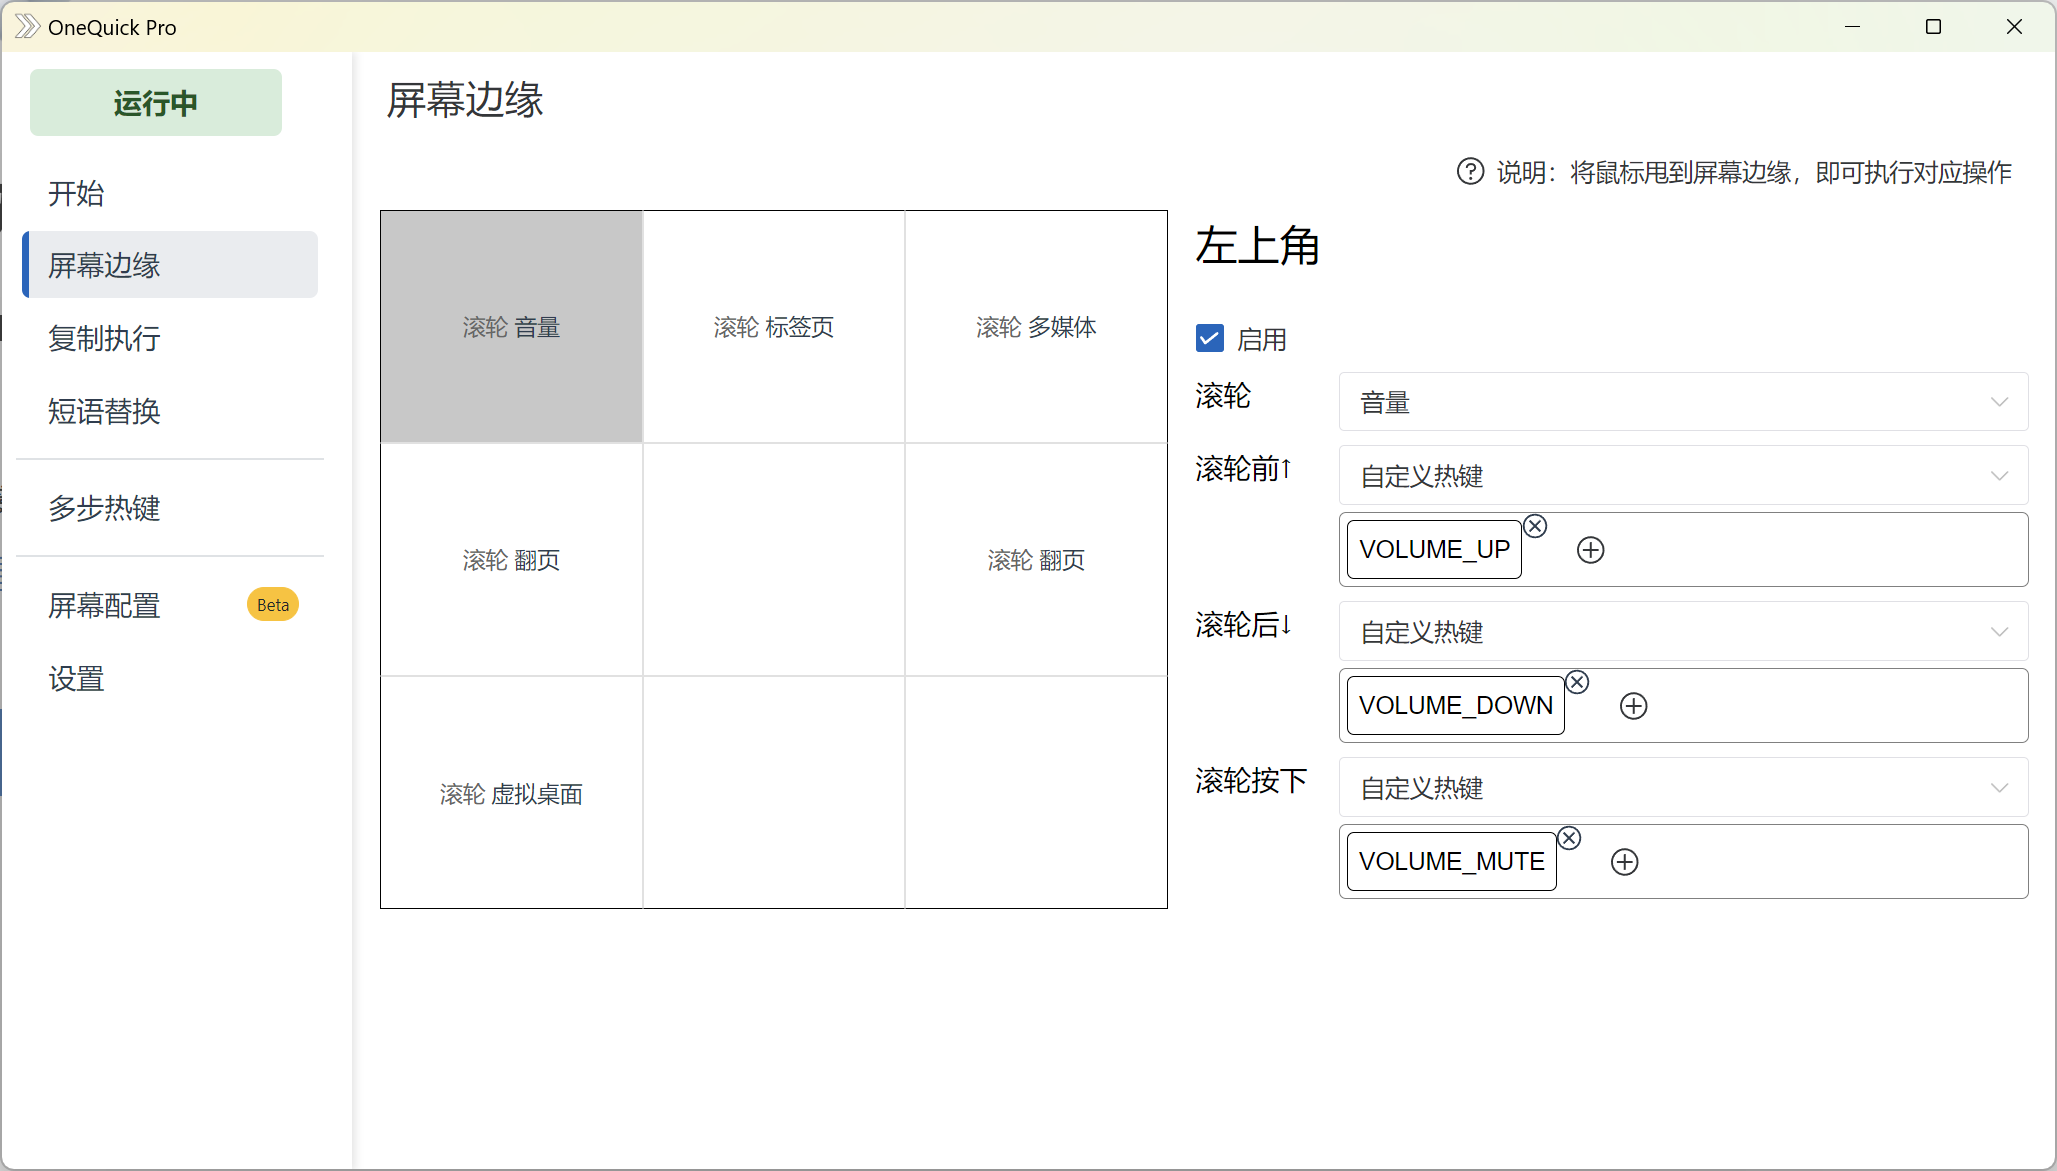
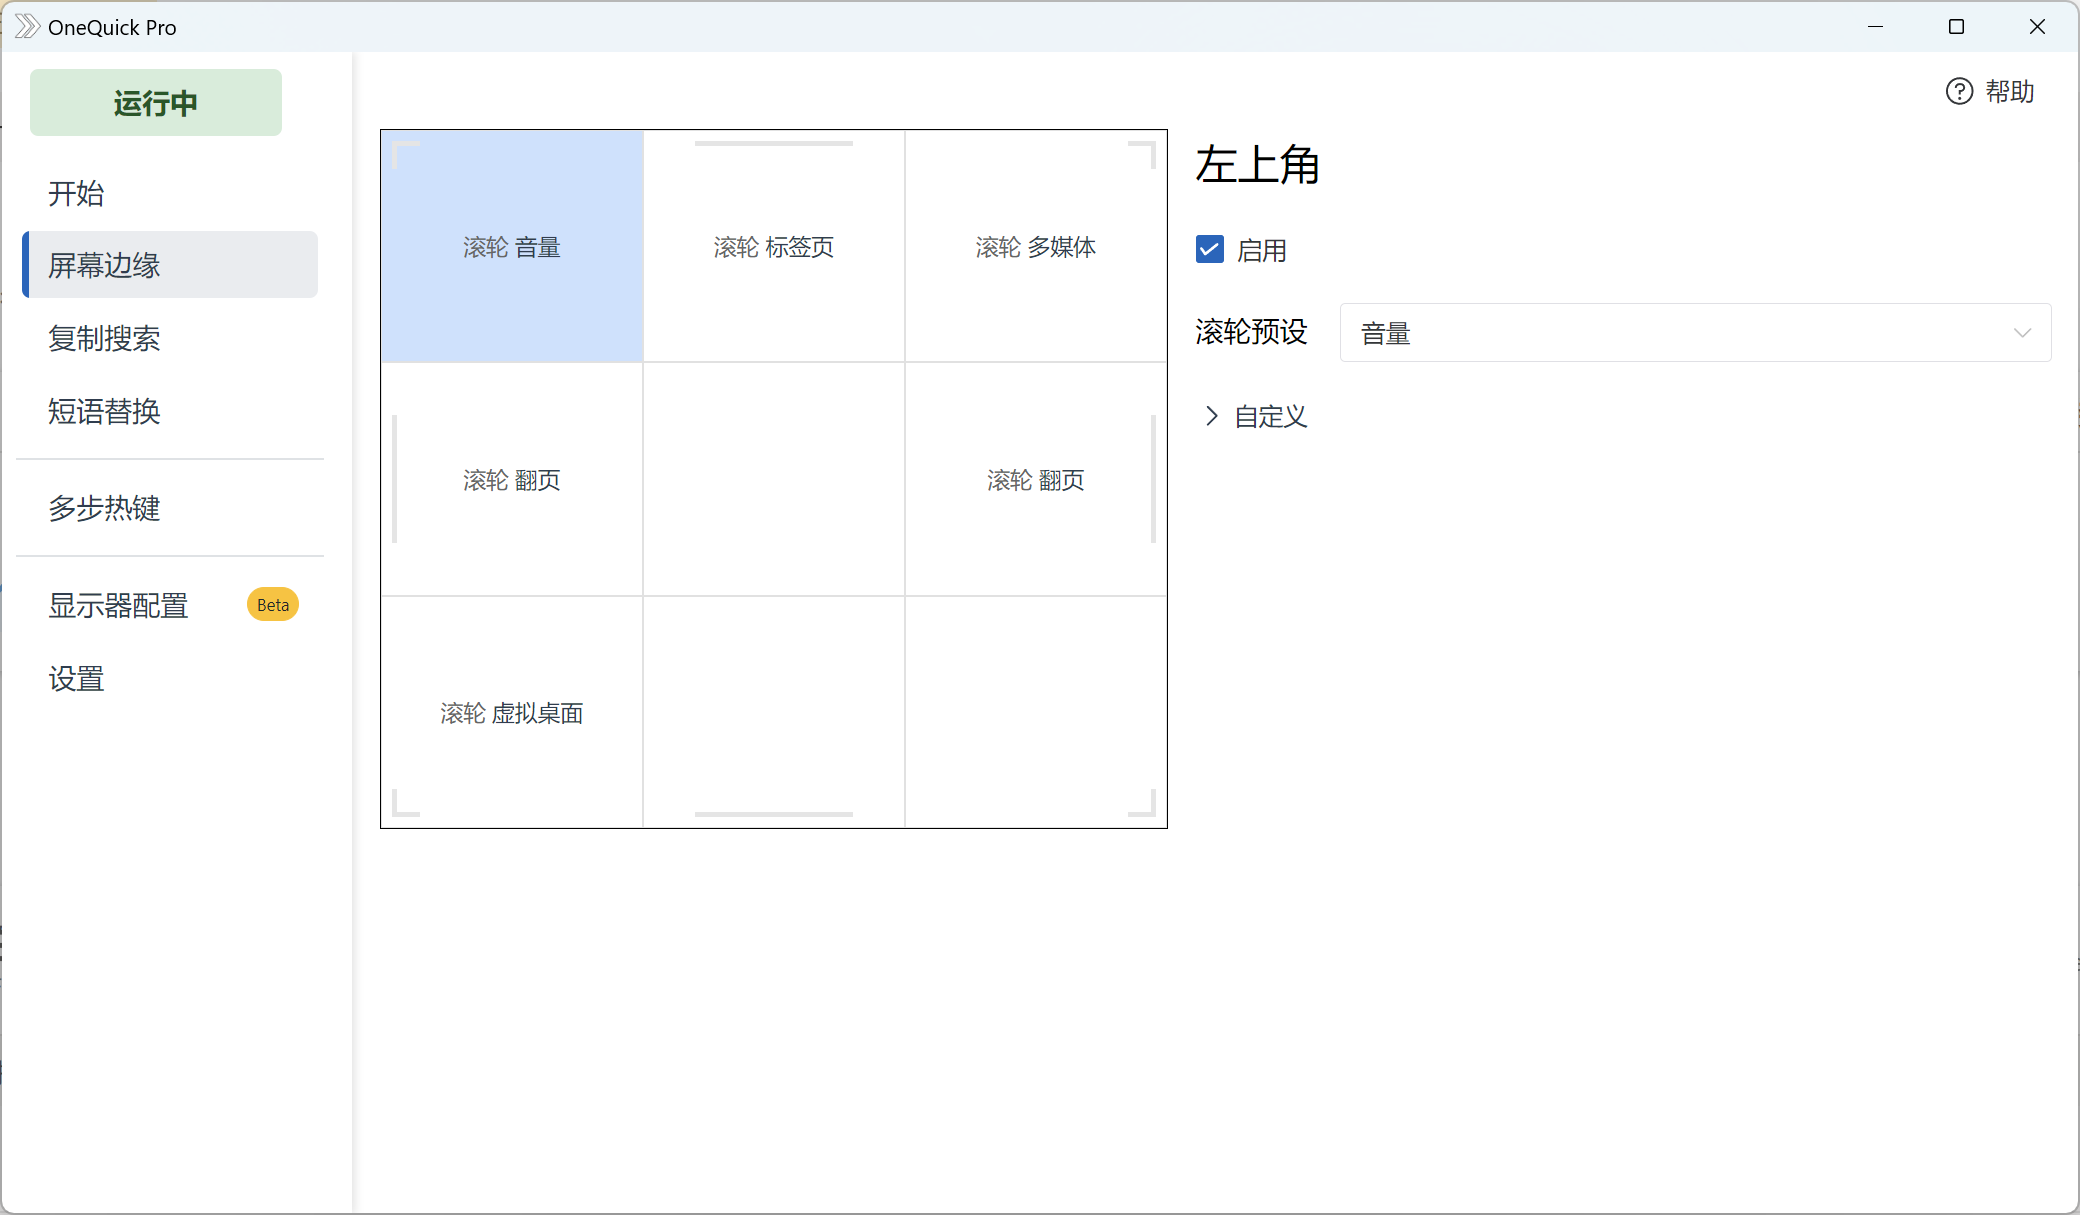
v10.2 更新

diff --git a/website/.vitepress/locale/en.ts b/website/.vitepress/locale/en.ts
@@ -24,8 +24,8 @@ export const enConfig: LocaleSpecificConfig<DefaultTheme.Config> = {
                 text: 'Guides',
                 items: [
                     { text: 'Screen Border', link: '/en/guide/screen' },
-                    { text: 'Copy Run', link: '/en/guide/copy' },
-                    { text: 'Input Phrase', link: '/en/guide/phrase' },
+                    { text: 'Copy Search', link: '/en/guide/copy' },
+                    { text: 'Phrase Replace', link: '/en/guide/phrase' },
                     { text: 'Multi-Hotkey', link: '/en/guide/hotkey' },
                     { text: 'Display Config', link: '/en/guide/display' },
                     { text: 'Misc', link: '/en/guide/misc' },
@@ -60,7 +60,8 @@ export const homeData: HomeData = {
             url: common.url_msstore,
             image_src: '/en-ws-dl.svg',
             image_width: 200,
-            alt: [],
+            alt: [
+            ],
         },
         tip: '*Website under construction, if you have any questions, feel free to raise an issue on GitHub'
     },

diff --git a/website/.vitepress/locale/zh.ts b/website/.vitepress/locale/zh.ts
@@ -25,10 +25,10 @@ export const zhConfig: LocaleSpecificConfig<DefaultTheme.Config> = {
                 text: '指南',
                 items: [
                     { text: '屏幕边缘', link: '/guide/screen' },
-                    { text: '复制执行', link: '/guide/copy' },
+                    { text: '复制搜索', link: '/guide/copy' },
                     { text: '短语替换', link: '/guide/phrase' },
                     { text: '多步热键', link: '/guide/hotkey' },
-                    { text: '屏幕配置', link: '/guide/display' },
+                    { text: '显示器配置', link: '/guide/display' },
                     { text: '其他', link: '/guide/misc' },
                 ],
             },

diff --git a/website/src/en/guide/phrase.md b/website/src/en/guide/phrase.md
@@ -10,22 +10,30 @@ Simply type the set `input item` on the keyboard, and the program will automatic
 
 For example, in the settings shown above, typing `,,g` will automatically be replaced with `your-email-address@gmail.com`.
 
-![Old Interface](/feature/replace-phrase.gif){ data-zoomable .img-shadow }
+<!-- ![Old Interface](/feature/replace-phrase.gif){ data-zoomable .img-shadow } -->
 
-The prefix `,,` is to avoid misjudgment, and you can set it according to your needs.
+### Output Item Rules
 
-## Limitations
+Output items can be any characters, including Chinese, Emoji, etc.
 
-### Input Items
+However, it currently cannot output newline characters.
+
+In addition to outputting fixed text, there are some advanced usages:
+
+- Text starting with `dt:` will be formatted using the current time.
+- Text starting with `::` will output the subsequent text as is.
+
+For example:
+- `dt:` will output `2024/9/26 Thursday 11:39:41`
+- `dt:yyyy-MM-dd HH:mm:ss.fff` will output `2024-09-26 11:43:31.140`
+- `dt:Today is yyyy-MM-dd` will output `Today is 2024-09-26`
+
+The formatting string after `dt:` can refer to [DateTime.ToString](https://learn.microsoft.com/en-us/dotnet/standard/base-types/custom-date-and-time-format-strings).
+
+### Input Limitations
 
 OneQuick can infer which English symbols are pressed based on your keystrokes, but it cannot obtain information you input through an IME (Input Method Editor) for Chinese or other languages.
 
 Therefore, input items can only be English characters.
 
 Additionally, input items cannot contain special characters such as newline or tab characters.
-
-### Output Items
-
-Output items can be any characters, including Chinese, Emoji, etc.
-
-However, it currently cannot output newline characters.

diff --git a/website/src/guide/phrase.md b/website/src/guide/phrase.md
@@ -10,22 +10,30 @@
 
 例如上图中的设置，键入`,,g`后，会被自动替换为`your-email-address@gmail.com`。
 
-![旧版界面](/feature/replace-phrase.gif){ data-zoomable .img-shadow }
+<!-- ![旧版界面](/feature/replace-phrase.gif){ data-zoomable .img-shadow } -->
 
-前缀`,,`是为了避免误判，您可以根据需要自行设置。
+## 输出项规则
 
-## 限制
+输出项可以是任意字符，包括中文，Emoji等。
 
-### 输入项
+但目前无法输出换行符。
+
+除了输出固定的文本外，还有一些高级用法：
+
+- `dt:` 开头的文本会使用当前时间进行格式化
+- `::` 开头的文本会原样输出后续的文本
+
+例如：  
+`dt:` 将会输出 `2024/9/26 星期四 11:39:41`  
+`dt:yyyy-MM-dd HH:mm:ss.fff` 将会输出 `2024-09-26 11:43:31.140`  
+`dt:今天是yyyy年MM月dd日` 将会输出 `今天是2024年09月26日`  
+
+dt:后面的格式化字符串可以参考[DateTime.ToString](https://learn.microsoft.com/zh-cn/dotnet/standard/base-types/custom-date-and-time-format-strings)。
+
+## 输入项限制
 
 OneQuick可以根据您的按键，推断出哪些英文符号被按下，但OneQuick无法获取您通过输入法输入的中文等信息。
 
 因此，输入项只能是英文字符。
 
 此外，输入项也无法包含换行符、制表符等特殊字符。
-
-### 输出项
-
-输出项可以是任意字符，包括中文，Emoji等。
-
-但目前无法输出换行符。

diff --git a/website/src/support.md b/website/src/support.md
@@ -28,9 +28,17 @@ OneQuick自带了dotnet运行时，以保证在所有用户电脑上均可用，
 
 请放心，OneQuick并没有附带恶意软件，也不会收集用户数据。
 
+#### 占用内存如何？
+
+经过实际测试，在后台运行时，OneQuick只占用25MB左右的内存。
+
+#### 有时候没有效果
+
+由于系统限制，如果当前活动窗口是管理员权限的，OneQuick无法获取按键事件。
+
 #### 购买页面闪退
 
-由于Windows限制，如果OneQuick以管理员权限启动，则无法显示购买页面。
+由于系统限制，如果OneQuick以管理员权限启动，则无法显示购买页面。
 
 #### 我想导入旧版的配置
 

diff --git a/website/src/en/support.md b/website/src/en/support.md
@@ -22,6 +22,15 @@ OneQuick comes with the dotnet runtime to ensure it works on all users' computer
 
 Rest assured, OneQuick does not include malware and does not collect user data.
 
+
+#### How much memory does it occupy?
+
+After actual testing, OneQuick only occupies about 25MB of memory when running in the background.
+
+#### Sometimes it doesn't work
+
+Due to system restrictions, if the current active window has administrator privileges, OneQuick cannot capture key events.
+
 #### Purchase page crashes
 
 Due to Windows restrictions, if OneQuick is launched with administrator privileges, the purchase page cannot be displayed.

diff --git a/website/src/privacy-policy.md b/website/src/privacy-policy.md
@@ -2,10 +2,24 @@
 title: 隐私政策
 ---
 
-OneQuick目前不会收集用户任何的数据。
+默认情况下，OneQuick会发送一些匿名的使用数据，以帮助改进应用。
+
+可能发送的数据如下：
+
+- 程序版本号
+- 程序显示语言
+- 操作系统版本
+- 购买事件
+- 崩溃日志
 
 ---
 
-OneQuick currently does not collect any user data.
+By default, OneQuick sends some anonymous usage data to help improve the application.
 
-Enjoy your time with OneQuick! 🎉
+The data that may be sent includes:
+
+- OneQuick Version
+- OneQuick Language
+- OS Version
+- Purchase events
+- Crash logs

diff --git a/website/src/change-log.md b/website/src/change-log.md
@@ -2,6 +2,17 @@
 title: 更新日志
 ---
 
+## 10.2.0 (2024/9/26)
+
+#### 新增：
+- 短语替换可使用`dt:`开头的字符串输出当前时间
+- 设置中新增**许可证**面板，可查看订阅详情，限免促销信息等
+
+#### 优化：
+- 优化各个页面的帮助信息，优化屏幕边缘九宫格显示效果
+- 修复显示器配置中图示错误的问题
+- 不再检测v1.x旧版本的配置文件，用户可手动导入
+
 ## 10.1.0 (2024/9/10)
 
 #### 新增：

diff --git a/website/src/en/guide/copy.md b/website/src/en/guide/copy.md
@@ -1,6 +1,4 @@
-# Copy Run
-
-> Perhaps "Quick Search" is a more suitable name
+# Copy Search
 
 The basic usage is to select a piece of text, copy it twice (Ctrl-C-C), and then press the set hotkey to automatically open the search results page.
 

diff --git a/website/src/guide/copy.md b/website/src/guide/copy.md
@@ -1,6 +1,4 @@
-# 复制执行
-
-> 也许叫“便捷搜索”更合适
+# 复制搜索
 
 基础用法是，选中一段文字，复制两次（Ctrl-C-C），然后按设定的热键，则自动打开搜索结果页。
 
